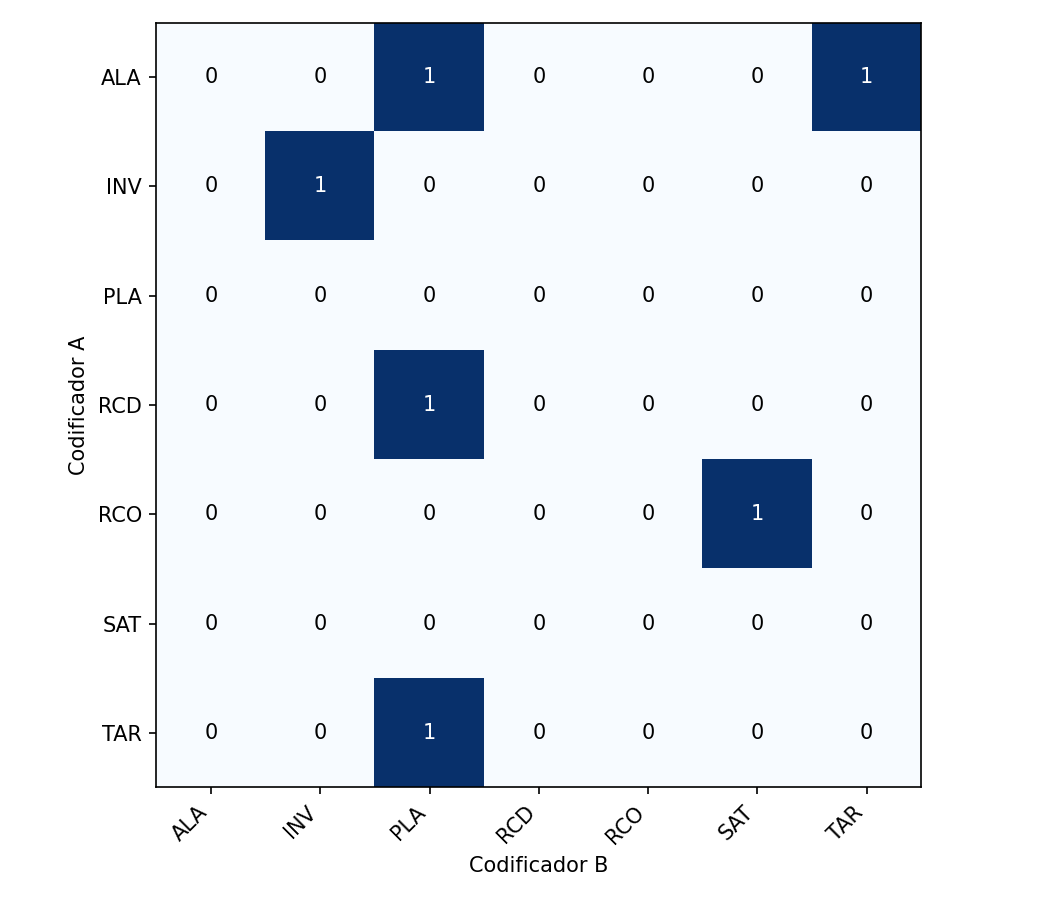
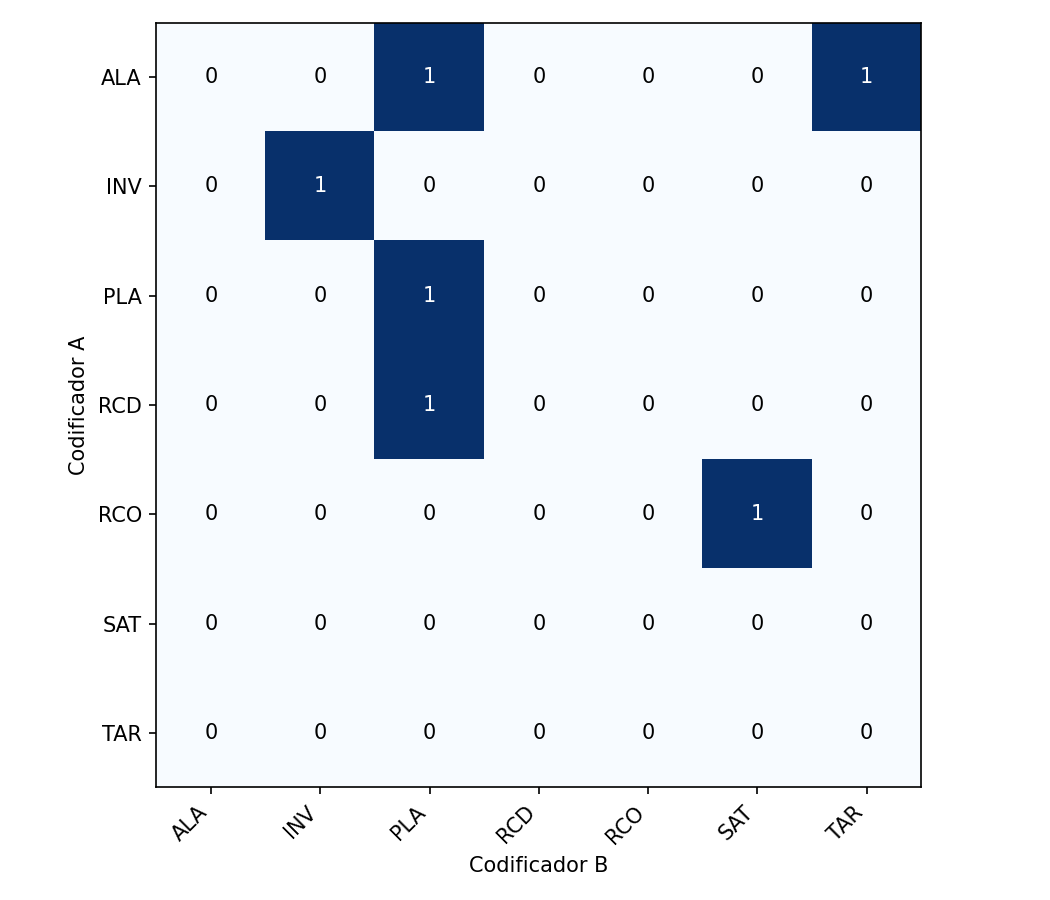
docs: revision honesta de ENTR-01 (TAR a PLA) y actualizacion del resultado del kappa

Changed region(s): [[0.3352, 0.2489, 0.4876, 0.4044], [0.3352, 0.7467, 0.4876, 0.9022]]

diff --git a/10_Autoria/doble_codificacion/NOTA_RESULTADO.md b/10_Autoria/doble_codificacion/NOTA_RESULTADO.md
@@ -6,23 +6,41 @@ independiente y sin consultarse, el tema dominante de las mismas 6 entrevistas
 códigos descrito en `INSTRUCCIONES.md`. El cálculo se hizo con `calcular_kappa.py`
 (kappa de Cohen), no a mano.
 
-## Resultado
+## Resultado inicial
 
 - Kappa de Cohen: **0.118**
 - Acuerdo observado: 16.7% (1 de 6 entrevistas: ambas coincidieron en ENTR-12 = INV)
-- Interpretación (Landis & Koch, 1977): **acuerdo leve**
+- Interpretación (Landis & Koch, 1977): acuerdo leve
+
+## Revisión
+
+Al revisar su propia codificación, Danela reconsideró el caso de ENTR-01: inicialmente
+lo había clasificado como TAR (tareas laborales), pero al repensarlo concluyó que el
+control de plagas es el motivo de fondo por el que el participante insiste en el
+seguimiento de tareas (se registra la tarea para verificar que se aplicó a tiempo el
+control fitosanitario), por lo que PLA describe mejor el tema dominante. Este fue el
+único cambio realizado; las otras 5 codificaciones de Danela se mantienen exactamente
+como en la primera ronda.
+
+## Resultado final
+
+- Kappa de Cohen: **0.250**
+- Acuerdo observado: 33.3% (2 de 6: ENTR-01 = PLA y ENTR-12 = INV)
+- Interpretación (Landis & Koch, 1977): **acuerdo aceptable/leve** (en el límite entre
+  "leve" y "aceptable" según la escala)
 
 Detalle entrevista por entrevista en `correspondencia_kappa.csv`.
 
 ## Interpretación honesta
 
-El acuerdo entre las dos codificadoras fue bajo. Esto no se debe a un error en el
-procedimiento — cada una codificó por separado, sin ver el archivo de la otra, y el
-cálculo se hizo por script, tal como exige la guía. Un kappa bajo es en sí mismo un
-resultado válido de la prueba de confiabilidad, no un fallo que deba ocultarse o
-recalcularse hasta que "salga bien".
+El acuerdo entre las dos codificadoras sigue siendo bajo, incluso después de la
+revisión. Esto no se debe a un error en el procedimiento — cada una codificó por
+separado, sin ver el archivo de la otra en el momento de decidir, y el cálculo se hizo
+por script, tal como exige la guía. Un kappa bajo es en sí mismo un resultado válido
+de la prueba de confiabilidad, no un fallo que deba ocultarse o forzarse hasta que
+"salga bien".
 
-La causa más probable, revisando las discrepancias, es que la mayoría de las
+La causa más probable, revisando las discrepancias restantes, es que la mayoría de las
 entrevistas tocan varios temas con peso similar (por ejemplo, plagas, alertas
 automáticas y tareas laborales suelen aparecer juntas en una misma entrevista), por
 lo que elegir un único "tema dominante" es una decisión inherentemente subjetiva sin
@@ -32,7 +50,7 @@ una futura revisión de los criterios de codificación.
 
 ## Archivos de esta carpeta
 
-- `codificador_a.csv`, `codificador_b.csv`: codificación independiente de cada persona.
-- `correspondencia_kappa.csv`: tabla de coincidencia entrevista por entrevista.
-- `resultado_kappa.txt`: salida completa del script (kappa, error estándar, IC95%).
-- `grafico_kappa.png`: gráfico de dispersión de la doble codificación.
+- `codificador_a.csv`, `codificador_b.csv`: codificación independiente de cada persona (resultado final, tras la revisión de ENTR-01).
+- `correspondencia_kappa.csv`: tabla de coincidencia entrevista por entrevista (resultado final).
+- `resultado_kappa.txt`: salida completa del script (kappa, error estándar, IC95%) del resultado final.
+- `grafico_kappa.png`: gráfico de dispersión de la doble codificación (resultado final).
